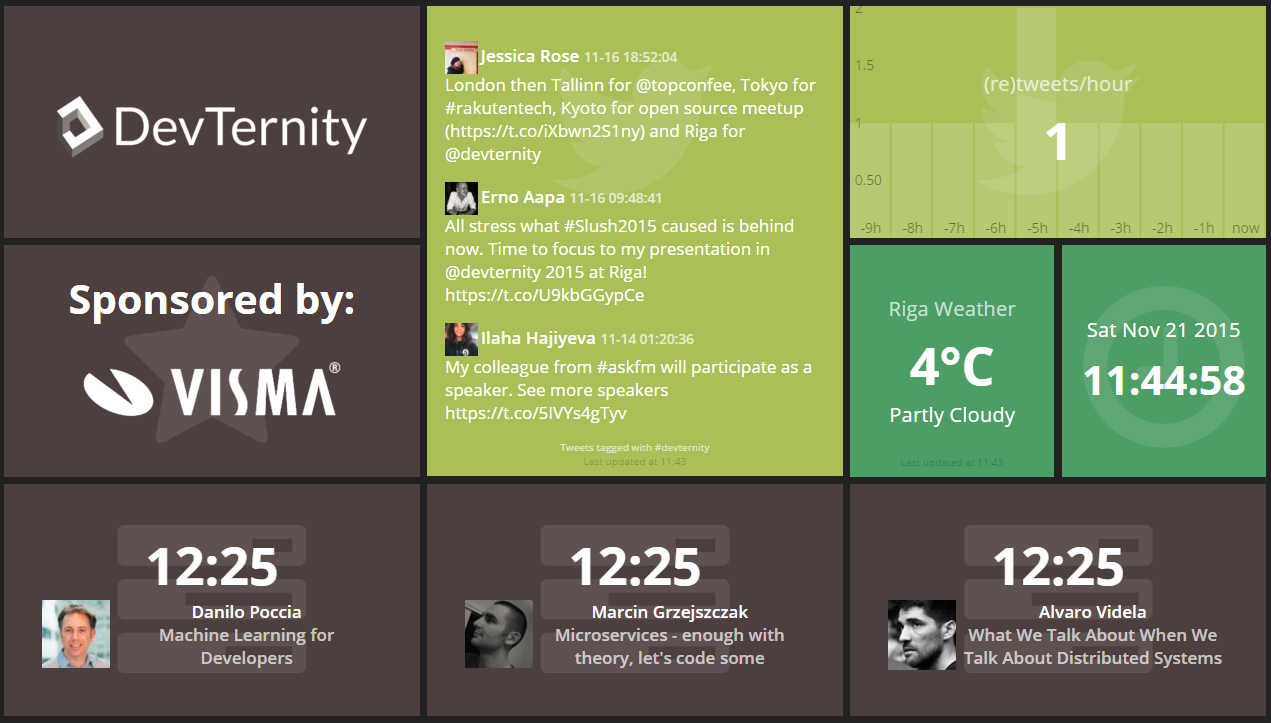
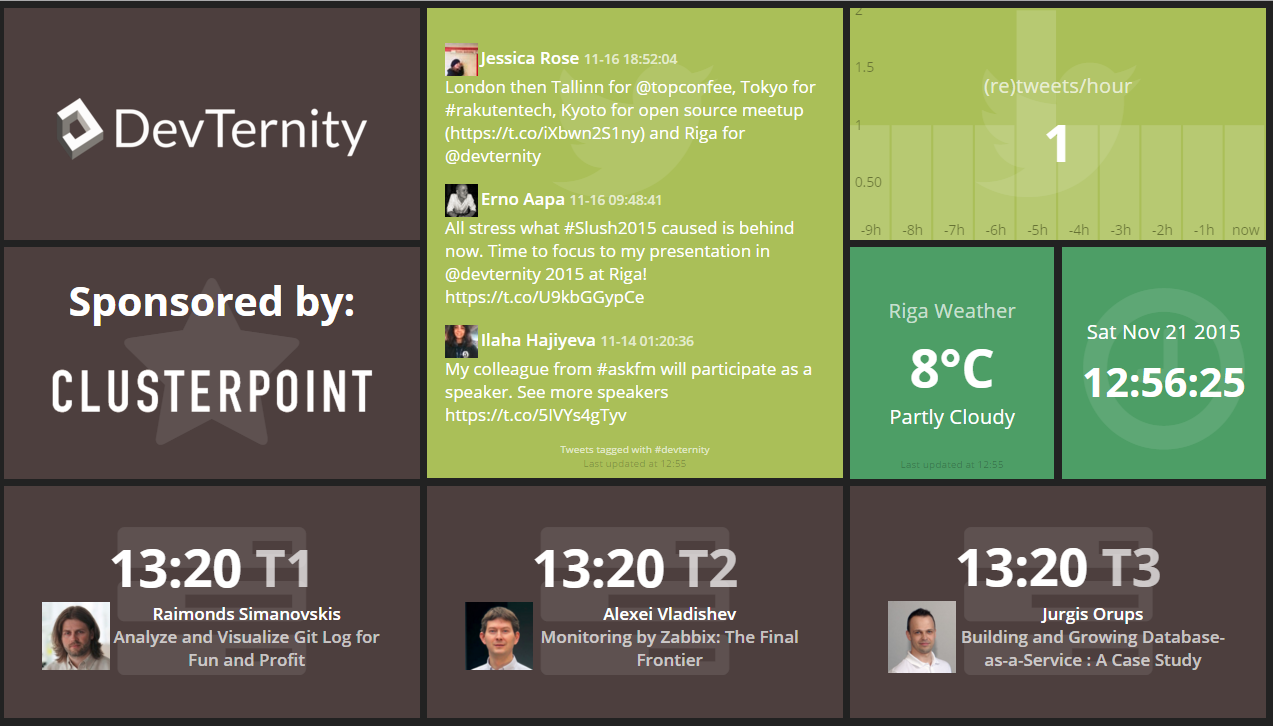
added basic room name calculation

diff --git a/widgets/track/track.html b/widgets/track/track.html
@@ -1,6 +1,6 @@
 
 <div class="session-container">  
-  <h2><span data-bind="current_session.time" class="time"></span></h2>     
+  <h2><span data-bind="current_session.time" class="time"></span> <span data-bind="current_session.room_name" class="title"></span></h2>     
   <table style="width: 85%; margin-left: auto; margin-right: auto;">  
     <tbody>
       <tr>

diff --git a/jobs/devternity.rb b/jobs/devternity.rb
@@ -22,7 +22,7 @@ def to_min(time_code)
   return (time_code / 100) * 60 + time_code % 100
 end
 
-SCHEDULER.every '5s', :first_in => 0 do |job|
+SCHEDULER.every '1m', :first_in => 0 do |job|
   current_time = Time.now.in_time_zone('Europe/Riga')
   current_min  = current_time.hour * 60 + current_time.min
   schedule     = JSON.parse(open(global_config['devternity_data_file']) { |f| f.read }).first['schedule']
@@ -39,9 +39,9 @@ SCHEDULER.every '5s', :first_in => 0 do |job|
   valid_slots = time_slots.select { |time_slot| to_min(time_slot[:time_code]) > current_min + 15 }  
   current_slots = valid_slots.select { |slot| slot[:time_code] == valid_slots.first[:time_code] }
   if current_slots && current_slots.size > 0
-    track1 = current_slots[0]
-    track2 = current_slots.size > 1 ? current_slots[1] : current_slots[0]
-    track3 = current_slots.size > 2 ? current_slots[2] : current_slots[0] 
+    track1 = (current_slots[0]).merge({ :room_name => 'T1' })
+    track2 = (current_slots.size > 1 ? current_slots[1] : current_slots[0]).merge({ :room_name => 'T2' })
+    track3 = (current_slots.size > 2 ? current_slots[2] : current_slots[0]).merge({ :room_name => 'T3' })
     send_event('track1', session: track1)
     send_event('track2', session: track2)
     send_event('track3', session: track3)
